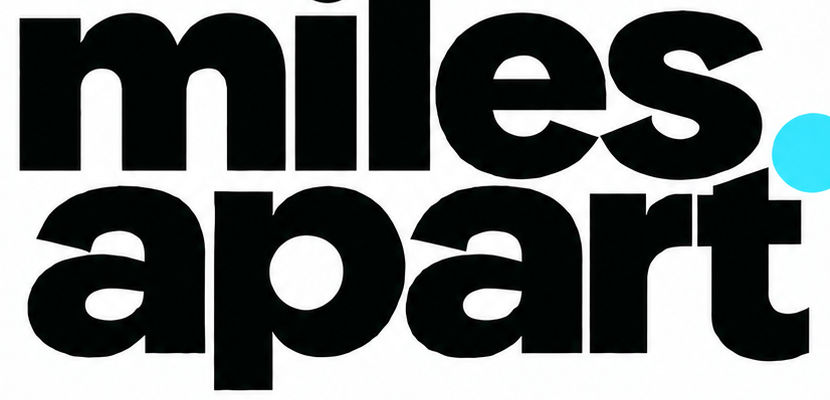
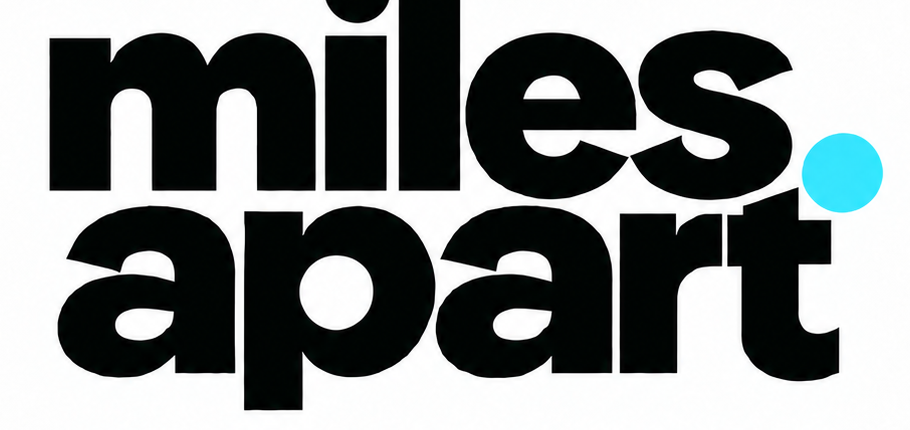
Add files via upload

diff --git a/style.css b/style.css
@@ -6,7 +6,7 @@
 *{box-sizing:border-box} body{margin:0;background:var(--paper);color:var(--ink);font-family:Inter,ui-sans-serif,system-ui,-apple-system,BlinkMacSystemFont,"Segoe UI",sans-serif}
 a{color:inherit;text-decoration:none}.shell{display:grid;grid-template-columns:248px 1fr;min-height:100vh}
 .sidebar{position:sticky;top:0;height:100vh;background:var(--paper);border-right:1px solid var(--line);padding:24px 18px;display:flex;flex-direction:column}
-.brand{padding:6px 8px 25px}.brand img{display:block;width:205px;height:auto}
+.brand{padding:6px 8px 25px;overflow:visible}.brand img{display:block;width:205px;height:auto;max-width:none;overflow:visible}
 .nav{display:grid;gap:5px}.nav a{padding:12px 13px;border-radius:14px;color:#4f5a59;font-weight:750}.nav a:hover,.nav a.active{background:var(--accent-soft);color:var(--ink)}.nav a.active:before{content:"";display:inline-block;width:7px;height:7px;background:var(--accent);border-radius:50%;margin:0 9px 2px 0}
 .side-bottom{margin-top:auto;background:var(--dark);color:white;border-radius:18px;padding:15px}.side-bottom small{color:#aeb6b2}.side-bottom strong{display:block;margin:4px 0 12px}.mini-progress{height:7px;background:#34403c;border-radius:99px;overflow:hidden}.mini-progress i{display:block;height:100%;width:72%;background:var(--accent)}
 .main{padding:30px 42px 60px;max-width:1500px;width:100%}.top{display:flex;align-items:center;justify-content:space-between;margin-bottom:28px}.crumb{color:var(--muted);font-size:12px;font-weight:800;letter-spacing:.11em}.avatar{width:42px;height:42px;border-radius:50%;display:grid;place-items:center;background:var(--accent);font-weight:900}.top-right{display:flex;align-items:center;gap:12px}
@@ -26,7 +26,7 @@ h1{font-size:42px;letter-spacing:-2.2px;margin:0 0 8px;line-height:1.05}.lead{co
 .tag{display:inline-block;background:#eef7f8;padding:5px 8px;border-radius:8px;font-size:11px;font-weight:800;margin-right:5px}
 .bar{display:flex;gap:7px;align-items:end;height:150px}.bar i{flex:1;background:#ddd;border-radius:7px 7px 2px 2px}.bar i:nth-child(3),.bar i:nth-child(7){background:#111}.bar i:nth-child(7){background:var(--accent)}
 .route{height:190px;border-radius:18px;background:radial-gradient(circle at 20% 70%,var(--accent) 0 4px,transparent 5px),linear-gradient(135deg,#e7ebe4,#fafaf6);position:relative;overflow:hidden}.route:after{content:"";position:absolute;inset:25px 40px;background:transparent;border:4px solid #171716;border-left-color:transparent;border-bottom-color:transparent;border-radius:48% 52% 48% 52%;transform:rotate(-20deg)}
-@media(max-width:900px){.shell{grid-template-columns:1fr}.sidebar{position:relative;height:auto}.brand img{width:230px}.nav{grid-template-columns:repeat(3,1fr)}.side-bottom{display:none}.main{padding:24px}.g4,.g3{grid-template-columns:1fr 1fr}}
+@media(max-width:900px){.shell{grid-template-columns:1fr}.sidebar{position:relative;height:auto;overflow:visible}.brand img{width:230px;max-width:none}.nav{grid-template-columns:repeat(3,1fr)}.side-bottom{display:none}.main{padding:24px}.g4,.g3{grid-template-columns:1fr 1fr}}
 @media(max-width:600px){.g4,.g3,.g2{grid-template-columns:1fr}.hero{display:block}.hero .btn{margin-top:18px}.hero-logo{width:310px}h1{font-size:34px}.nav{grid-template-columns:1fr 1fr}}
 
 /* Miles Apart Running Club — new CI */
